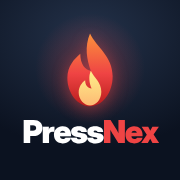
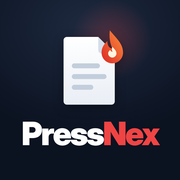
Add files via upload

Changed region(s): [[0.25, 0.0833, 0.7222, 0.6667], [0.1111, 0.6667, 0.8889, 0.8333]]

diff --git a/app.js b/app.js
@@ -4,7 +4,7 @@ import { initializeAppCheck, ReCaptchaEnterpriseProvider } from "https://www.gst
 import { getAuth, onAuthStateChanged, signInWithEmailAndPassword, signOut, updatePassword, EmailAuthProvider, reauthenticateWithCredential } from "https://www.gstatic.com/firebasejs/12.0.0/firebase-auth.js";
 import { getFirestore, doc, getDoc, setDoc, addDoc, updateDoc, deleteDoc, collection, query, orderBy, getDocs, serverTimestamp } from "https://www.gstatic.com/firebasejs/12.0.0/firebase-firestore.js";
 import { getAI, getGenerativeModel, GoogleAIBackend } from "https://www.gstatic.com/firebasejs/12.0.0/firebase-ai.js";
-import { DEFAULT_STAMM, ABSCHNITTE, VORLAGEN } from "./data.js?v=20261111-1100";
+import { DEFAULT_STAMM, ABSCHNITTE, VORLAGEN } from "./data.js?v=20261111-1145";
 
 /* ---------- Konfiguration (öffentlich, nicht geheim) ---------- */
 const firebaseConfig = {
@@ -299,7 +299,7 @@ function render() {
   renderShell(el);
 }
 
-const LOGO = `<img class="logo-mark" src="icon-192.png" alt="" width="40" height="40">`;
+const LOGO = `<img class="logo-mark" src="icon-192.png?v=2" alt="" width="40" height="40">`;
 function brand(dark) { return `<div class="brand ${dark ? "dark" : ""}">${LOGO}<div><span class="wordmark">Press<span>Nex</span></span><small>Berichte auf Knopfdruck</small></div></div>`; }
 
 function renderLogin(el) {

diff --git a/index.html b/index.html
@@ -10,10 +10,10 @@
 <meta name="apple-mobile-web-app-title" content="PressNex">
 <meta name="apple-mobile-web-app-status-bar-style" content="default">
 <title>PressNex</title>
-<link rel="manifest" href="manifest.json">
-<link rel="icon" href="icon-192.png" type="image/png">
-<link rel="apple-touch-icon" href="icon-180.png">
-<link rel="stylesheet" href="style.css?v=20261111-1100">
+<link rel="manifest" href="manifest.json?v=2">
+<link rel="icon" href="icon-192.png?v=2" type="image/png">
+<link rel="apple-touch-icon" href="icon-180.png?v=2">
+<link rel="stylesheet" href="style.css?v=20261111-1145">
 <script>
   // Fehleranzeige: zeigt Startprobleme direkt auf der Seite an (statt endlos zu laden)
   window.__pnErrors = [];
@@ -40,6 +40,6 @@
 <pre id="pn-diag" style="display:none;margin:16px;padding:12px;border-radius:12px;background:#FEF2F2;color:#991B1B;white-space:pre-wrap;font-size:13px"></pre>
 <div id="toast" role="status" aria-live="polite"></div>
 <noscript>PressNex benötigt JavaScript.</noscript>
-<script type="module" src="app.js?v=20261111-1100"></script>
+<script type="module" src="app.js?v=20261111-1145"></script>
 </body>
 </html>
